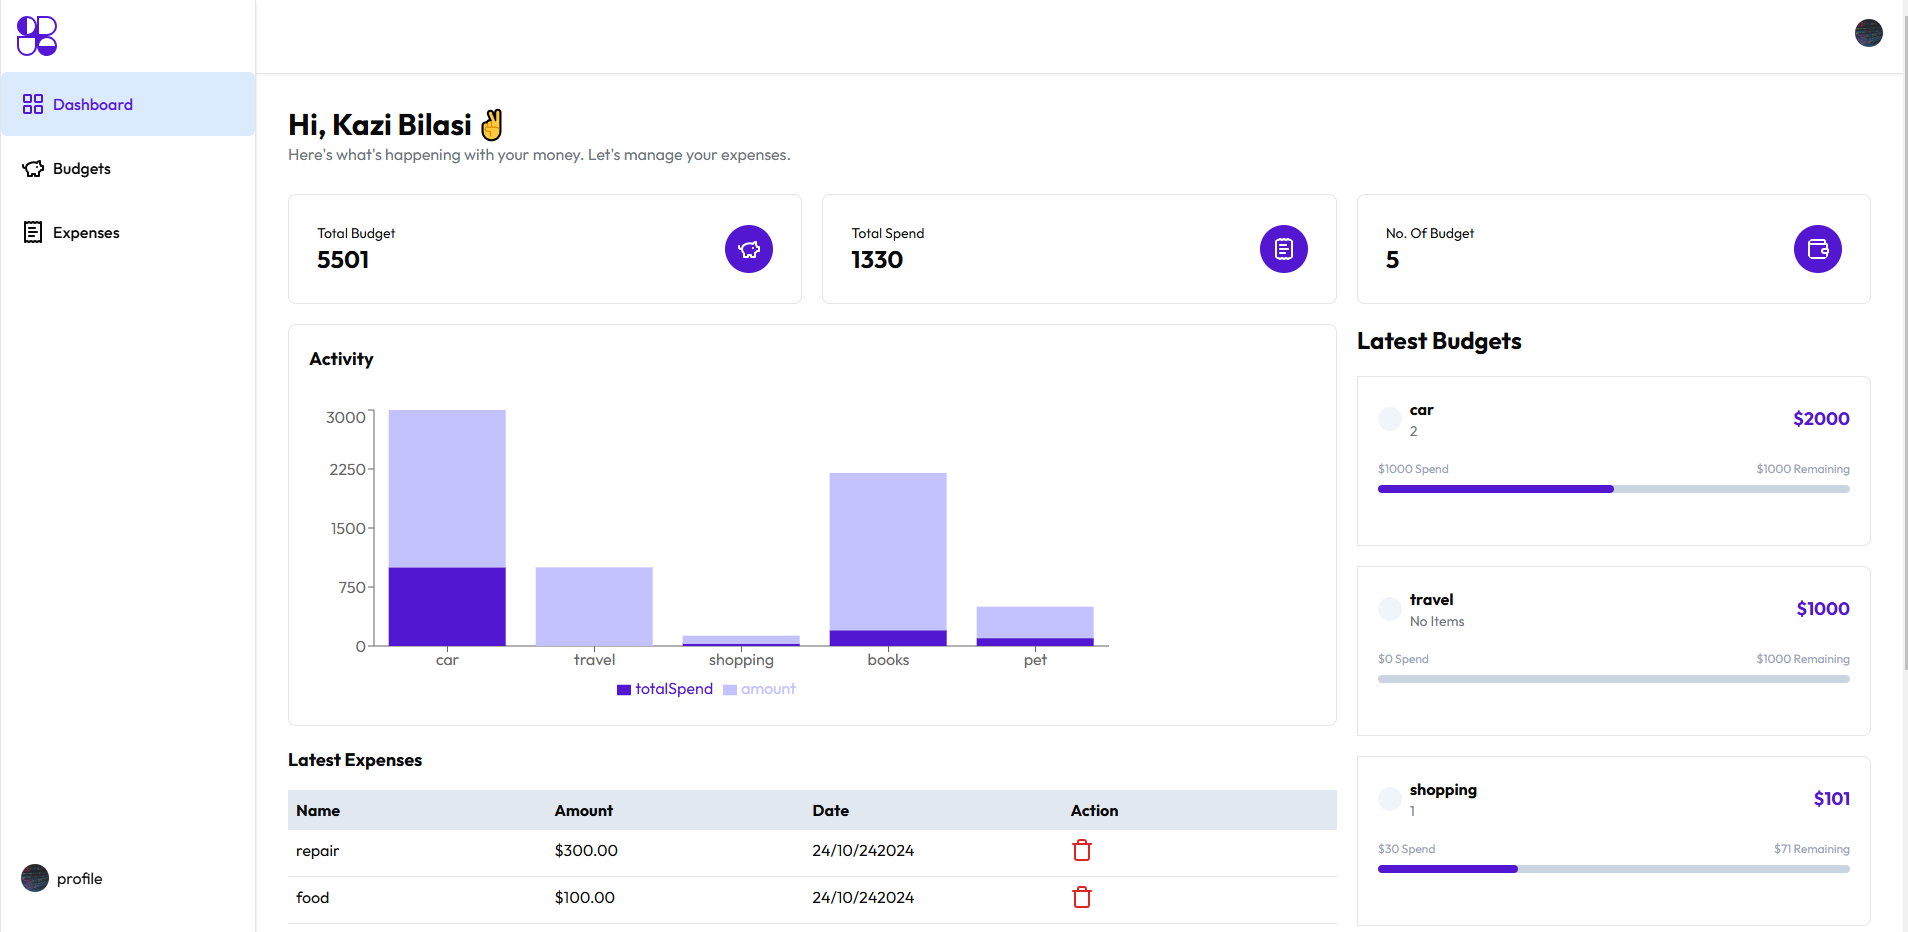
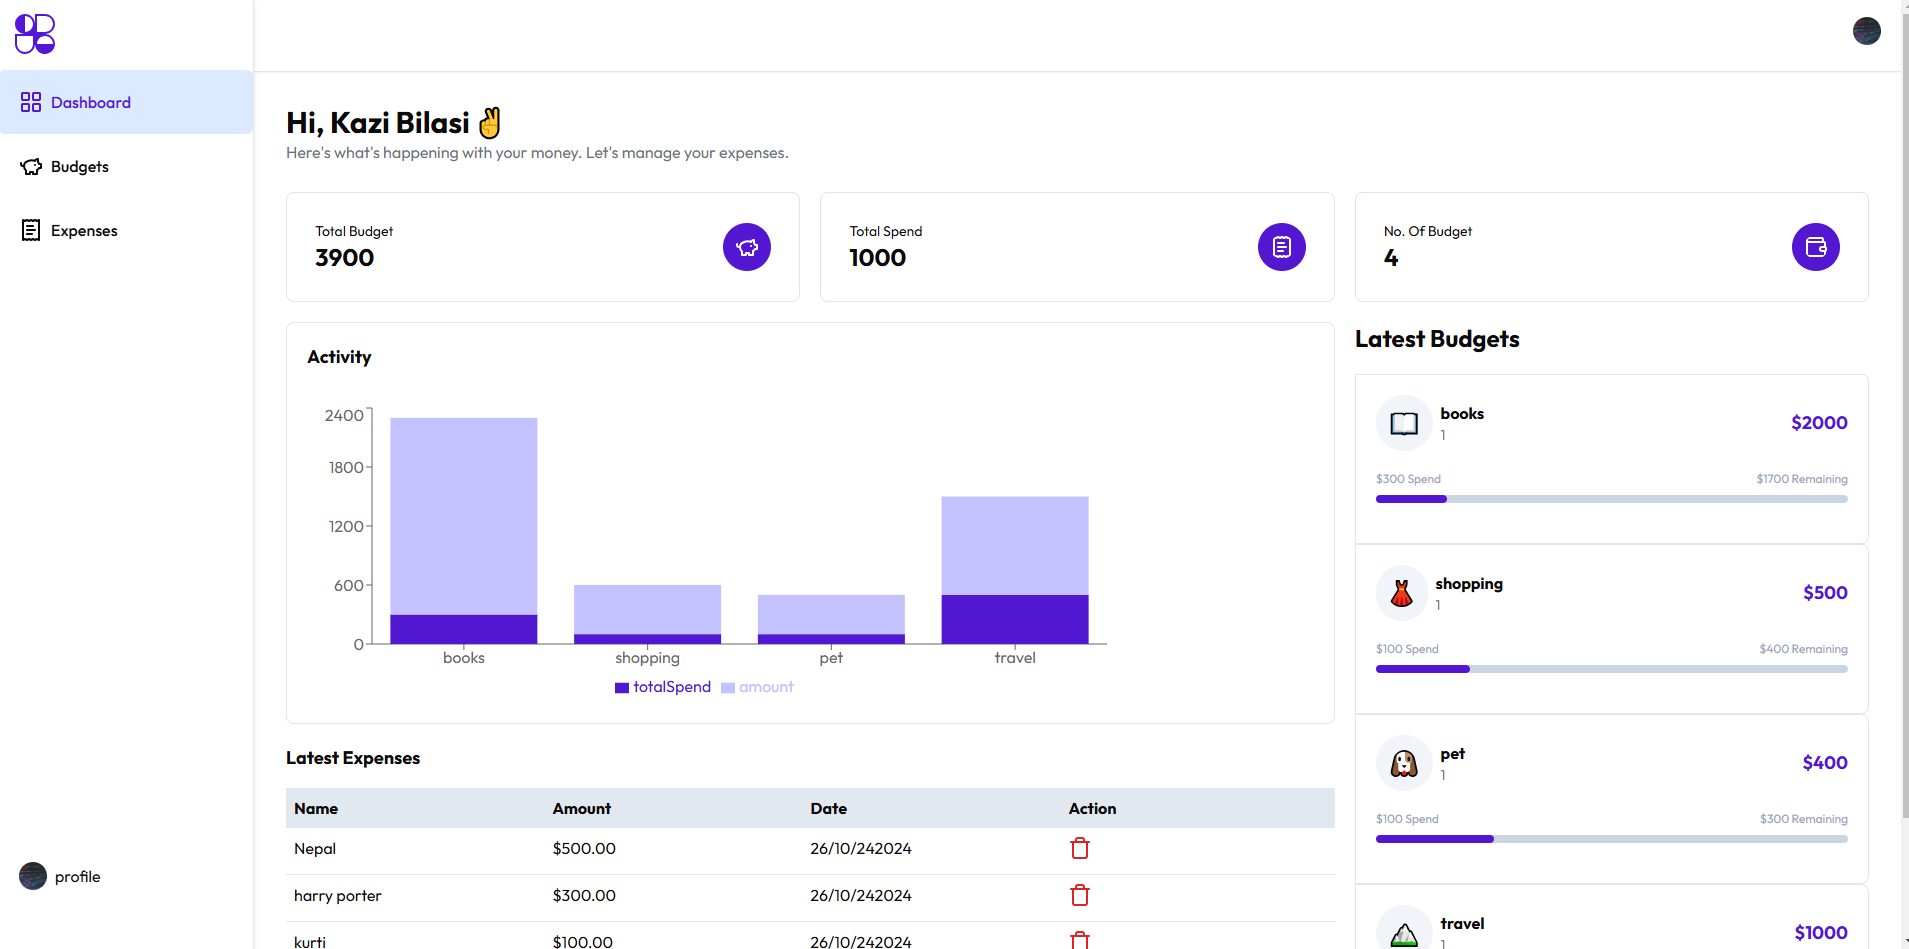
project done

diff --git a/app/_components/Hero.jsx b/app/_components/Hero.jsx
@@ -1,37 +1,45 @@
 import React from "react";
-
+import Image from "next/image";
 
 const Hero = () => {
   return (
-    <section className="bg-gray-50">
-      <div className="mx-auto max-w-screen-xl px-4 py-32 lg:flex lg:h-screen lg:items-center">
-        <div className="mx-auto max-w-xl text-center">
-          <h1 className="text-3xl font-extrabold sm:text-5xl">
-           Manage Your Expense.
-            <strong className="font-extrabold text-primary sm:block">
-              {" "}
-              Contron Your Money.{" "}
-            </strong>
-          </h1>
+   
 
-          <p className="mt-4 sm:text-xl/relaxed">
-            Start creating your money and save ton of money.
-          </p>
+    <div className="mt-10">
+      <div className="mx-auto max-w-xl text-center">
+        <h1 className="text-3xl font-extrabold sm:text-5xl">
+          Manage Your Expense.
+          <strong className="font-extrabold text-primary sm:block">
+            Control Your Money.
+          </strong>
+        </h1>
 
-          <div className="mt-8 flex flex-wrap justify-center gap-4">
-            <a
-              className="block w-full rounded bg-primary px-12 py-3 text-sm font-medium text-white shadow hover:bg-primary focus:outline-none focus:ring active:bg-primary sm:w-auto"
-              href="/sign-in"
-            >
-              Get Started
-            </a>
+        <p className="mt-4 sm:text-xl/relaxed">
+          Start managing your money and save a ton of money.
+        </p>
 
-           
-          </div>
-          
+        <div className="mt-8 flex flex-wrap justify-center gap-4">
+          <a
+            className="block w-full rounded bg-primary px-12 py-3 text-sm font-medium text-white shadow hover:bg-primary focus:outline-none focus:ring active:bg-primary sm:w-auto"
+            href="/sign-in"
+          >
+            Get Started
+          </a>
         </div>
       </div>
-    </section>
+
+      <div className="flex flex-col justify-center items-center w-full ">
+        {" "}
+        {/* Added -mt-[40px] and z-10 */}
+        <Image
+          width={1100}
+          height={1000}
+          src="/dashboard.png"
+          alt="Dashboard"
+          className="object-cover" // Optional: Ensures the image covers its container
+        />
+      </div>
+    </div>
   );
 };
 

diff --git a/app/(routes)/dashboard/expenses/[id]/page.jsx b/app/(routes)/dashboard/expenses/[id]/page.jsx
@@ -23,11 +23,13 @@ import {
 } from "@/components/ui/alert-dialog";
 import { toast } from "sonner";
 import EditBudget from "../_components/EditBudget";
+import { useRouter } from "next/navigation";
 
 const ExpensesScreen = ({ params }) => {
   const [budgetInfo, setBudgetInfo] = useState(null);
   const { user } = useUser();
   const [expensesList, setExpensesList] = useState([]);
+  const route = useRouter()
 
   // Get budget information and expenses once the user is available
   useEffect(() => {
@@ -53,6 +55,7 @@ const ExpensesScreen = ({ params }) => {
         .groupBy(Budgets.id);
 
       setBudgetInfo(result[0]);
+      getExpensesList()
     } catch (error) {
       console.error("Error fetching budget info:", error);
     }
@@ -74,14 +77,17 @@ const ExpensesScreen = ({ params }) => {
   // Delete the budget
   const deleteBudget = async () => {
     try {
-      const result = await db
-        .delete(Budgets)
-        .where(eq(Budgets.id, params.id)) // Use params.id directly
+      const deleteExpense = await db
+        .delete(Expenses)
+        .where(eq(Expenses.budgetId, params.id)).returning(); // Use params.id directly
+        
+      if (deleteExpense) {
+       const result = await db.delete(Budgets)
+       .where(eq(Budgets.id,params.id))
         .returning();
-      if (result) {
-        toast("Budget is deleted");
-        window.location.href = "/dashboard/budgets"; // Replace useRouter with manual redirect
       }
+      toast('Budget Deleted!')
+      route.replace('/dashboard/budgets')
     } catch (error) {
       console.error("Error deleting budget:", error);
     }
@@ -115,7 +121,7 @@ const ExpensesScreen = ({ params }) => {
               </AlertDialogHeader>
               <AlertDialogFooter>
                 <AlertDialogCancel>Cancel</AlertDialogCancel>
-                <AlertDialogAction onClick={deleteBudget}>
+                <AlertDialogAction onClick={()=>deleteBudget()}>
                   Continue
                 </AlertDialogAction>
               </AlertDialogFooter>

diff --git a/app/(routes)/dashboard/page.jsx b/app/(routes)/dashboard/page.jsx
@@ -6,8 +6,9 @@ import { db } from "@/utils/dbConfig";
 import { Budgets, Expenses } from "@/utils/schema";
 import { desc, eq, sql } from "drizzle-orm";
 import BarChartDashboard from "./_components/BarChartDashboard";
-import { BudgetItem } from "./budgets/_components/BudgetItem";
+
 import ExpenseListTable from "./expenses/_components/ExpenseListTable";
+import { BudgetItem } from "./budgets/_components/BudgetItem";
 
 const Dashboard = () => {
   const { user } = useUser();
@@ -22,25 +23,24 @@ const Dashboard = () => {
           name: Budgets.name,
           createdBy: Budgets.createdBy,
           amount: Budgets.amount,
+          icon: Budgets.icon,  // Include icon in the select statement
           // Using COALESCE to replace null with 0 for totalSpend
           totalSpend:
-            sql`COALESCE(SUM(CAST(${Expenses.amount} AS NUMERIC)))`.mapWith(
-              Number
-            ),
+            sql`COALESCE(SUM(CAST(${Expenses.amount} AS NUMERIC)))`.mapWith(Number),
           totalItem: sql`COUNT(${Expenses.id})`.mapWith(Number),
         })
         .from(Budgets)
         .leftJoin(Expenses, eq(Budgets.id, Expenses.budgetId))
         .where(eq(Budgets.createdBy, user?.primaryEmailAddress?.emailAddress))
-        .groupBy(Budgets.id)
-        .orderBy(desc(Budgets.id));
-
+        .groupBy(Budgets.id);
+  
       setBudgetList(result);
       getAllExpenses();
     } catch (error) {
       console.error("Error fetching budget list:", error);
     }
   };
+  
 
   /***
    * Used to get All expenses
@@ -88,9 +88,11 @@ const Dashboard = () => {
 
         <div className="grid gap-5">
           <h2 className="font-bold text-2xl">Latest Budgets</h2>
-          {budgetList?.map((budget, index) => (
-            <BudgetItem key={index} budget={budget}></BudgetItem>
-          ))}
+          <div>
+            {budgetList?.map((budget, index) => (
+              <BudgetItem budget={budget} key={index}></BudgetItem>
+            ))}
+          </div>
         </div>
       </div>
     </div>

diff --git a/app/(routes)/dashboard/expenses/page.jsx b/app/(routes)/dashboard/expenses/page.jsx
@@ -1,34 +1,47 @@
+// UserExpensesContainer.js
 "use client";
-
+import React, { useEffect, useState } from "react";
 import { db } from "@/utils/dbConfig";
+import { Expenses, Budgets } from "@/utils/schema";
+import { useUser } from "@clerk/nextjs";
+import { eq } from "drizzle-orm";
 import ExpenseListTable from "./_components/ExpenseListTable";
-import { useEffect, useState } from "react";
-import { Expenses } from "@/utils/schema";
 
-const Page = () => {
+
+const UserExpensesContainer = () => {
+  const { user } = useUser();
   const [expensesList, setExpensesList] = useState([]);
 
-  const refreshData = async () => {
+  // Fetch expenses for the logged-in user
+  const getUserExpenses = async () => {
     try {
       const result = await db
-        .select()
-        .from(Expenses);
+        .select({
+          id: Expenses.id,
+          name: Expenses.name,
+          amount: Expenses.amount,
+          createdAt: Expenses.createdAt,
+        })
+        .from(Budgets)
+        .rightJoin(Expenses, eq(Budgets.id, Expenses.budgetId))
+        .where(eq(Budgets.createdBy, user?.primaryEmailAddress?.emailAddress)); // Filter by user
       setExpensesList(result);
     } catch (error) {
-      console.error("Error fetching expenses:", error);
+      console.error("Error fetching user expenses:", error);
     }
   };
 
   useEffect(() => {
-    refreshData();
-  }, []);
+    if (user) {
+      getUserExpenses();
+    }
+  }, [user]);
 
-  return (
-    <div className=" p-5">
-      <h1>Expense Management</h1>
-      <ExpenseListTable expensesList={expensesList} refreshData={refreshData} />
+  return(
+    <div  className=" p-6">
+       <ExpenseListTable expensesList={expensesList} refreshData={getUserExpenses} />
     </div>
   );
 };
 
-export default Page;
+export default UserExpensesContainer;

diff --git a/app/(routes)/dashboard/expenses/_components/ExpenseListTable.jsx b/app/(routes)/dashboard/expenses/_components/ExpenseListTable.jsx
@@ -6,13 +6,13 @@ import { Trash } from "lucide-react";
 import React from "react";
 import { toast } from "sonner";
 
-const ExpenseListTable = ({ expensesList }) => {
+const ExpenseListTable = ({ expensesList,refreshData }) => {
   const deleteExpense =async (expense)=>{
       const result = await db.delete(Expenses).where(eq(
         Expenses.id,expense.id
       )).returning()
       if(result){
-       
+       refreshData()
         toast('Expnese Detelted!');
         
       }
@@ -36,7 +36,7 @@ const ExpenseListTable = ({ expensesList }) => {
           <h2>{expenses?.createdAt}</h2>
           <h2>
             <button  >
-              <Trash onClick={()=>deleteExpense(expenses)}  className="text-red-600 hover:text-red-800  ml-10 lg:ml-0"  />
+              <Trash onClick={()=>deleteExpense(expenses)}  className="text-red-600 hover:text-red-800 "  />
             </button>
           </h2>
         </div>

diff --git a/app/(routes)/dashboard/budgets/_components/BudgetItem.jsx b/app/(routes)/dashboard/budgets/_components/BudgetItem.jsx
@@ -10,13 +10,13 @@ export const BudgetItem = ({ budget }) => {
   };
 
   return (
-    <Link href={`/dashboard/expenses/${budget?.id}`} passHref>
+    <Link href={`/dashboard/expenses/${budget?.id}`} >
       <div className="p-5 border rounded-r-lg hover:shadow-md cursor-pointer h-[170px]">
         <div className="flex gap-2 items-center justify-between">
           <div className="flex gap-2 items-center">
-            <h2 className="p-3 text-2xl bg-slate-100 rounded-full">
+            <p className=" p-3 text-2xl bg-slate-100 rounded-full">
               {budget?.icon}
-            </h2>
+            </p>
             <div>
               <h2 className="font-bold">{budget?.name}</h2>
               <h2 className="text-sm text-gray-500">{budget?.totalItem || "No Items"}</h2>

diff --git a/app/(routes)/dashboard/expenses/_components/AddExpense.jsx b/app/(routes)/dashboard/expenses/_components/AddExpense.jsx
@@ -5,7 +5,6 @@ import { Budgets, Expenses } from "@/utils/schema";
 import { useUser } from "@clerk/nextjs";
 import { Loader } from "lucide-react";
 import moment from "moment/moment";
-import { root } from "postcss";
 import React, { useState } from "react";
 import { toast } from "sonner";
 import { v4 as uuidv4 } from "uuid";
